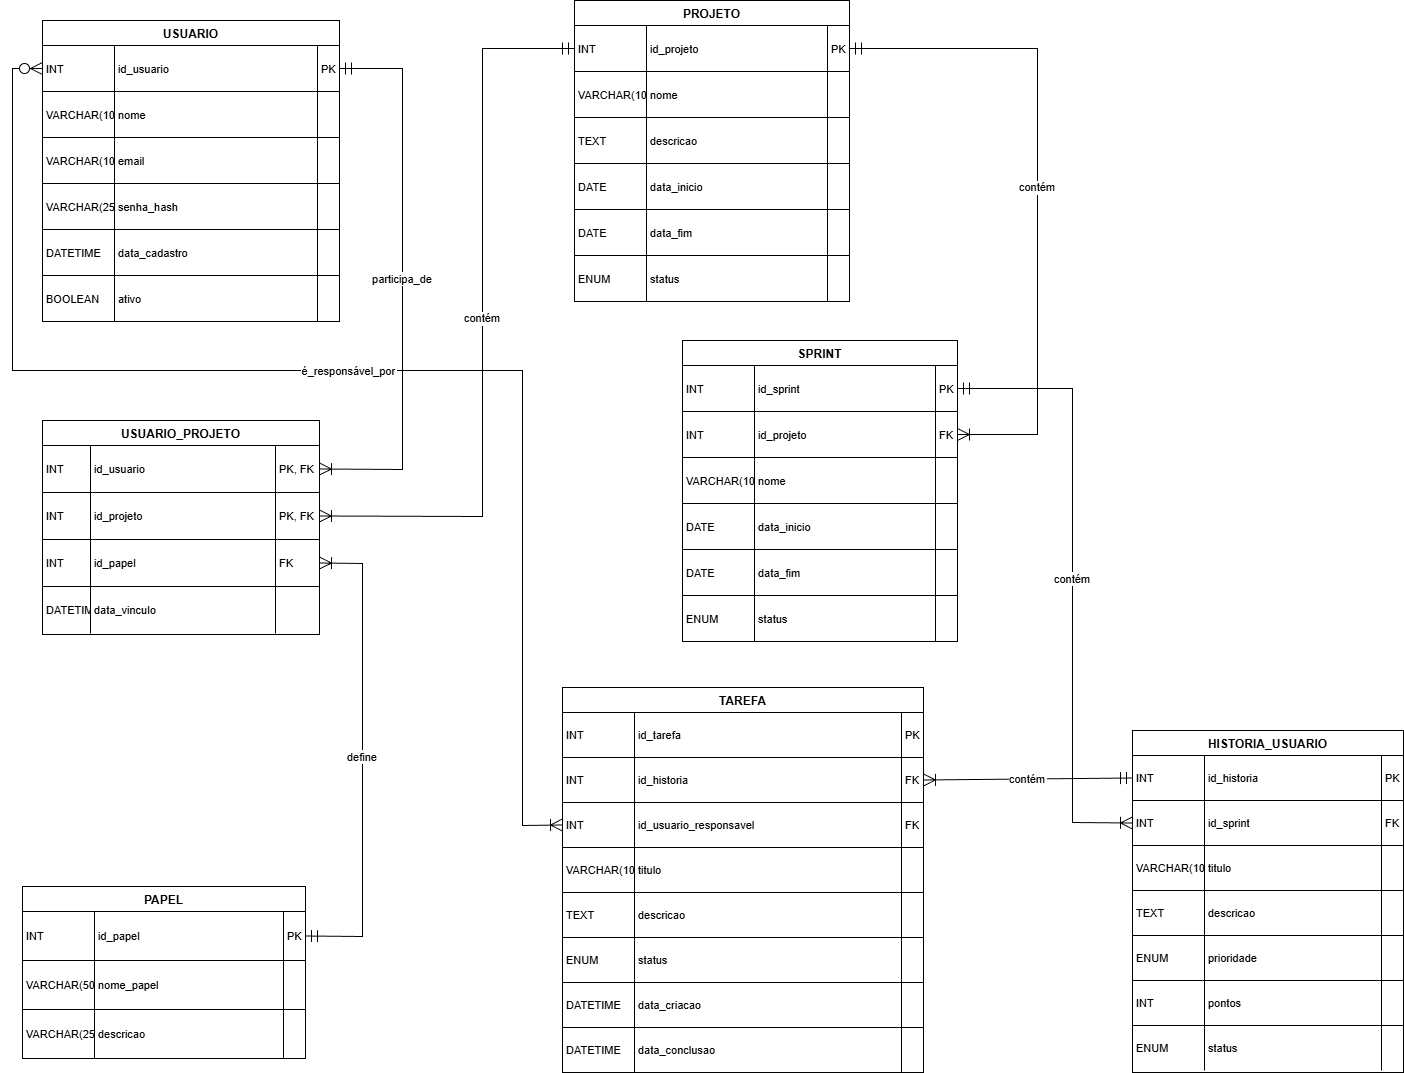
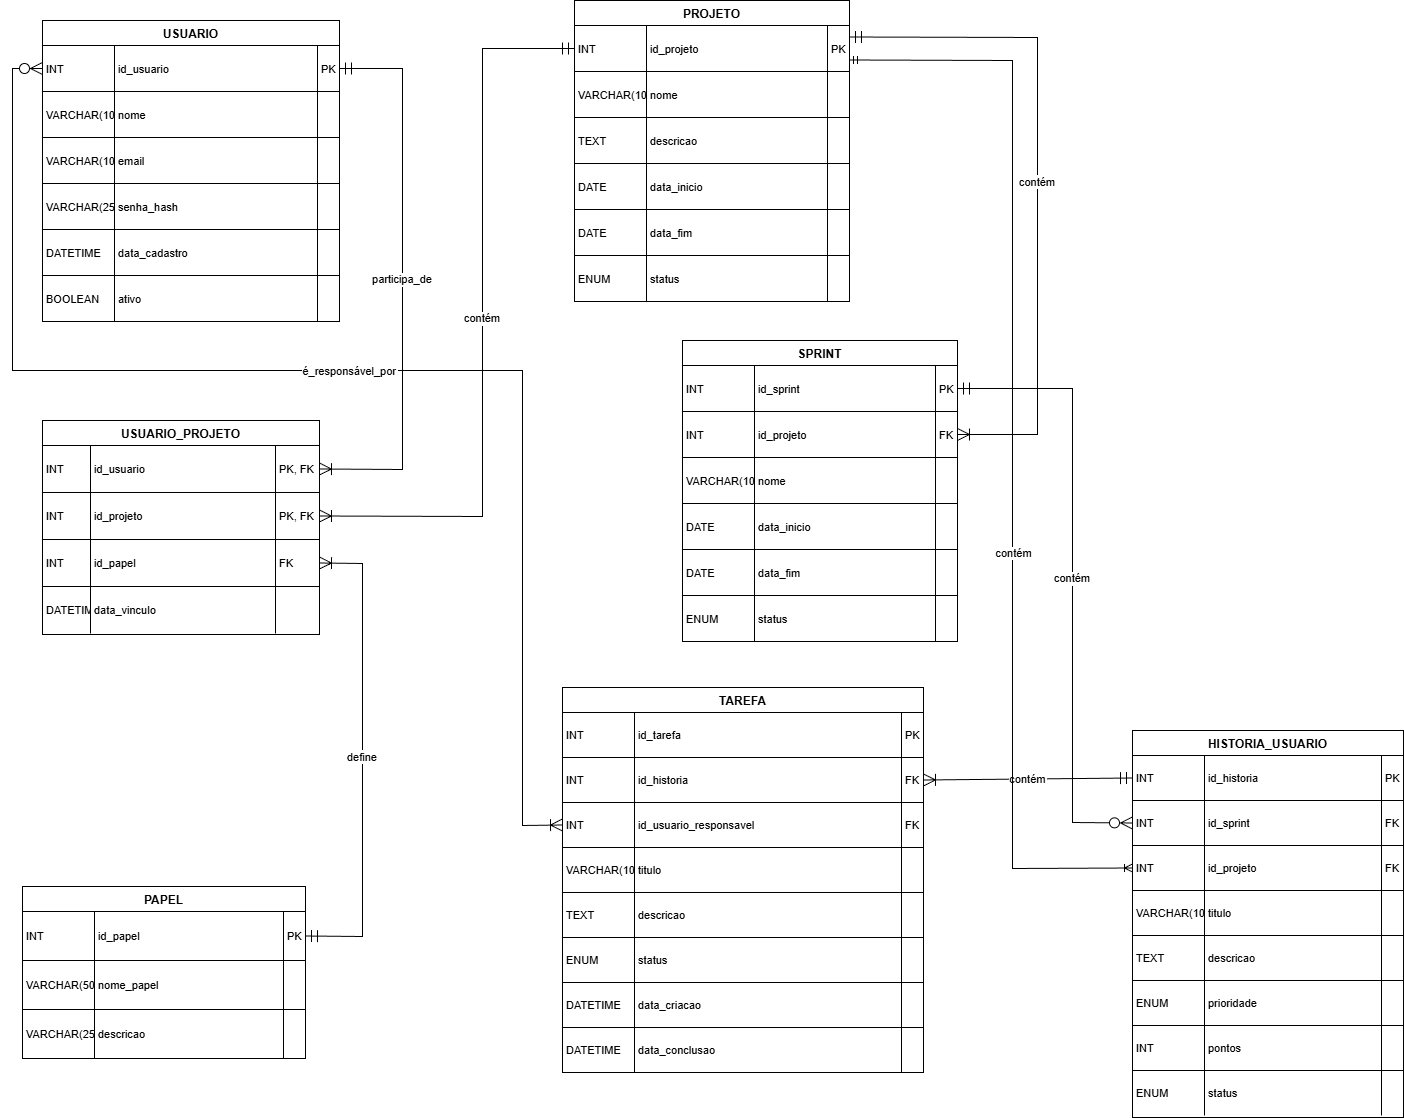
Correção projeto físico BD

diff --git a/artefatos/entregas/07_projeto_fisico_bd.md b/artefatos/entregas/07_projeto_fisico_bd.md
@@ -25,7 +25,18 @@ Abaixo são descritas todas as tabelas, seus campos, chaves e relacionamentos.
 Armazena os dados dos usuários do sistema, incluindo credenciais de acesso e informações pessoais básicas. Cada usuário pode participar de um ou mais projetos e assumir diferentes papéis (Product Owner, Scrum Master, Desenvolvedor).
 
 **Campos:**  
-| Campo | Tipo | Nulo | Chave | Descrição | |-------|------|------|--------|-----------| | id_usuario | INT AUTO_INCREMENT | NÃO | PK | Identificador único do usuário | | nome | VARCHAR(100) | NÃO | | Nome completo do usuário | | email | VARCHAR(100) | NÃO | UNIQUE | E-mail utilizado para login | | senha_hash | VARCHAR(255) | NÃO | | Senha criptografada | | data_cadastro | DATETIME | NÃO | | Data de criação do registro | | ativo | BOOLEAN | NÃO | | Indica se o usuário está ativo no sistema |
+| Campo | Tipo | Nulo | Chave | Descrição |
+|-------|------|------|--------|-----------|
+| id_usuario | INT AUTO_INCREMENT | NÃO | PK | Identificador único do usuário |
+| nome | VARCHAR(100) | NÃO |
+| Nome completo do usuário |
+| email | VARCHAR(100) | NÃO | UNIQUE | E-mail utilizado para login |
+| senha_hash | VARCHAR(255) | NÃO |
+| Senha criptografada |
+| data_cadastro | DATETIME | NÃO |
+| Data de criação do registro |
+| ativo | BOOLEAN | NÃO |
+| Indica se o usuário está ativo no sistema |
 
 **Relacionamentos:**
 
@@ -40,7 +51,13 @@ Armazena os dados dos usuários do sistema, incluindo credenciais de acesso e in
 Define os papéis possíveis dentro de um projeto Scrum (ex: Product Owner, Scrum Master, Desenvolvedor).
 
 **Campos:**  
-| Campo | Tipo | Nulo | Chave | Descrição | |-------|------|------|--------|-----------| | id_papel | INT AUTO_INCREMENT | NÃO | PK | Identificador único do papel | | nome_papel | VARCHAR(50) | NÃO | | Nome do papel (Product Owner, etc.) | | descricao | VARCHAR(255) | SIM | | Breve descrição da função no projeto |
+| Campo | Tipo | Nulo | Chave | Descrição |
+|-------|------|------|--------|-----------|
+| id_papel | INT AUTO_INCREMENT | NÃO | PK | Identificador único do papel |
+| nome_papel | VARCHAR(50) | NÃO |
+| Nome do papel (Product Owner, etc.) |
+| descricao | VARCHAR(255) | SIM |
+| Breve descrição da função no projeto |
 
 **Relacionamentos:**
 
@@ -54,7 +71,19 @@ Define os papéis possíveis dentro de um projeto Scrum (ex: Product Owner, Scru
 Representa um projeto Scrum dentro do sistema, contendo informações gerais e associando usuários e sprints.
 
 **Campos:**  
-| Campo | Tipo | Nulo | Chave | Descrição | |-------|------|------|--------|-----------| | id_projeto | INT AUTO_INCREMENT | NÃO | PK | Identificador único do projeto | | nome | VARCHAR(100) | NÃO | | Nome do projeto | | descricao | TEXT | SIM | | Descrição detalhada do projeto | | data_inicio | DATE | NÃO | | Data de início planejada | | data_fim | DATE | SIM | | Data de término planejada | | status | ENUM('Planejado','Em andamento','Concluído','Cancelado') | NÃO | | Estado atual do projeto |
+| Campo | Tipo | Nulo | Chave | Descrição |
+|-------|------|------|--------|-----------|
+| id_projeto | INT AUTO_INCREMENT | NÃO | PK | Identificador único do projeto |
+| nome | VARCHAR(100) | NÃO |
+| Nome do projeto |
+| descricao | TEXT | SIM |
+| Descrição detalhada do projeto |
+| data_inicio | DATE | NÃO |
+| Data de início planejada |
+| data_fim | DATE | SIM |
+| Data de término planejada |
+| status | ENUM('Planejado','Em andamento','Concluído','Cancelado') | NÃO |
+| Estado atual do projeto |
 
 **Relacionamentos:**
 
@@ -69,7 +98,13 @@ Representa um projeto Scrum dentro do sistema, contendo informações gerais e a
 Tabela de associação que vincula usuários a projetos e define seus papéis dentro de cada um.
 
 **Campos:**  
-| Campo | Tipo | Nulo | Chave | Descrição | |-------|------|------|--------|-----------| | id_usuario | INT | NÃO | PK, FK | Identificador do usuário | | id_projeto | INT | NÃO | PK, FK | Identificador do projeto | | id_papel | INT | NÃO | FK | Papel exercido no projeto | | data_vinculo | DATETIME | NÃO | | Data de associação ao projeto |
+| Campo | Tipo | Nulo | Chave | Descrição |
+|-------|------|------|--------|-----------|
+| id_usuario | INT | NÃO | PK, FK | Identificador do usuário |
+| id_projeto | INT | NÃO | PK, FK | Identificador do projeto |
+| id_papel | INT | NÃO | FK | Papel exercido no projeto |
+| data_vinculo | DATETIME | NÃO |
+| Data de associação ao projeto |
 
 **Relacionamentos:**
 
@@ -85,7 +120,18 @@ Tabela de associação que vincula usuários a projetos e define seus papéis de
 Contém os dados das sprints de cada projeto, como objetivo, duração e status.
 
 **Campos:**  
-| Campo | Tipo | Nulo | Chave | Descrição | |-------|------|------|--------|-----------| | id_sprint | INT AUTO_INCREMENT | NÃO | PK | Identificador da sprint | | id_projeto | INT | NÃO | FK | Projeto ao qual a sprint pertence | | nome | VARCHAR(100) | NÃO | | Nome ou objetivo da sprint | | data_inicio | DATE | NÃO | | Data de início da sprint | | data_fim | DATE | NÃO | | Data de término da sprint | | status | ENUM('Planejada','Em andamento','Encerrada') | NÃO | | Situação atual da sprint |
+| Campo | Tipo | Nulo | Chave | Descrição |
+|-------|------|------|--------|-----------|
+| id_sprint | INT AUTO_INCREMENT | NÃO | PK | Identificador da sprint |
+| id_projeto | INT | NÃO | FK | Projeto ao qual a sprint pertence |
+| nome | VARCHAR(100) | NÃO |
+| Nome ou objetivo da sprint |
+| data_inicio | DATE | NÃO |
+| Data de início da sprint |
+| data_fim | DATE | NÃO |
+| Data de término da sprint |
+| status | ENUM('Planejada','Em andamento','Encerrada') | NÃO |
+| Situação atual da sprint |
 
 **Relacionamentos:**
 
@@ -100,12 +146,27 @@ Contém os dados das sprints de cada projeto, como objetivo, duração e status.
 Armazena as histórias de usuário associadas a cada sprint, representando requisitos funcionais descritos em formato ágil.
 
 **Campos:**  
-| Campo | Tipo | Nulo | Chave | Descrição | |-------|------|------|--------|-----------| | id_historia | INT AUTO_INCREMENT | NÃO | PK | Identificador da história | | id_sprint | INT | NÃO | FK | Sprint associada | | titulo | VARCHAR(100) | NÃO | | Título resumido da história | | descricao | TEXT | SIM | | Descrição detalhada da história | | prioridade | ENUM('Alta','Média','Baixa') | NÃO | | Grau de prioridade | | pontos | INT | SIM | | Pontuação atribuída (story points) | | status | ENUM('To Do','Doing','Done') | NÃO | | Estado atual da história |
+| Campo | Tipo | Nulo | Chave | Descrição |
+|-------|------|------|--------|-----------|
+| id_historia | INT AUTO_INCREMENT | NÃO | PK | Identificador da história |
+| id_sprint | INT | SIM | FK | Sprint associada |
+| id_projeto | INT | NÃO | FK | Projeto ao qual a história pertence |
+| titulo | VARCHAR(100) | NÃO |
+| Título resumido da história |
+| descricao | TEXT | SIM |
+| Descrição detalhada da história |
+| prioridade | ENUM('Alta','Média','Baixa') | NÃO |
+| Grau de prioridade |
+| pontos | INT | SIM |
+| Pontuação atribuída (story points) |
+| status | ENUM('To Do','Doing','Done') | NÃO |
+| Estado atual da história |
 
 **Relacionamentos:**
 
 - FK (id_sprint) → **SPRINT(id_sprint)**
 - 1:N com **TAREFA**
+- FK (id_projeto) → **PROJETO(id_projeto)**
 
 ---
 
@@ -115,7 +176,21 @@ Armazena as histórias de usuário associadas a cada sprint, representando requi
 Representa as tarefas específicas derivadas de uma história de usuário. Cada tarefa pode ser atribuída a um desenvolvedor.
 
 **Campos:**  
-| Campo | Tipo | Nulo | Chave | Descrição | |-------|------|------|--------|-----------| | id_tarefa | INT AUTO_INCREMENT | NÃO | PK | Identificador da tarefa | | id_historia | INT | NÃO | FK | História de usuário associada | | id_usuario_responsavel | INT | SIM | FK | Usuário responsável pela execução | | titulo | VARCHAR(100) | NÃO | | Nome curto da tarefa | | descricao | TEXT | SIM | | Detalhamento da tarefa | | status | ENUM('To Do','Doing','Done') | NÃO | | Situação atual | | data_criacao | DATETIME | NÃO | | Data de criação | | data_conclusao | DATETIME | SIM | | Data de conclusão |
+| Campo | Tipo | Nulo | Chave | Descrição |
+|-------|------|------|--------|-----------|
+| id_tarefa | INT AUTO_INCREMENT | NÃO | PK | Identificador da tarefa |
+| id_historia | INT | NÃO | FK | História de usuário associada |
+| id_usuario_responsavel | INT | SIM | FK | Usuário responsável pela execução |
+| titulo | VARCHAR(100) | NÃO |
+| Nome curto da tarefa |
+| descricao | TEXT | SIM |
+| Detalhamento da tarefa |
+| status | ENUM('To Do','Doing','Done') | NÃO |
+| Situação atual |
+| data_criacao | DATETIME | NÃO |
+| Data de criação |
+| data_conclusao | DATETIME | SIM |
+| Data de conclusão |
 
 **Relacionamentos:**
 
